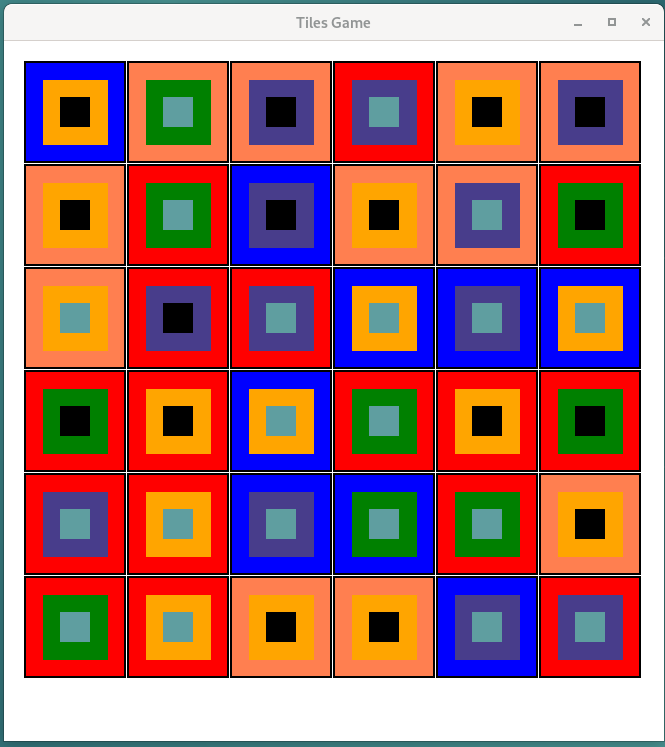
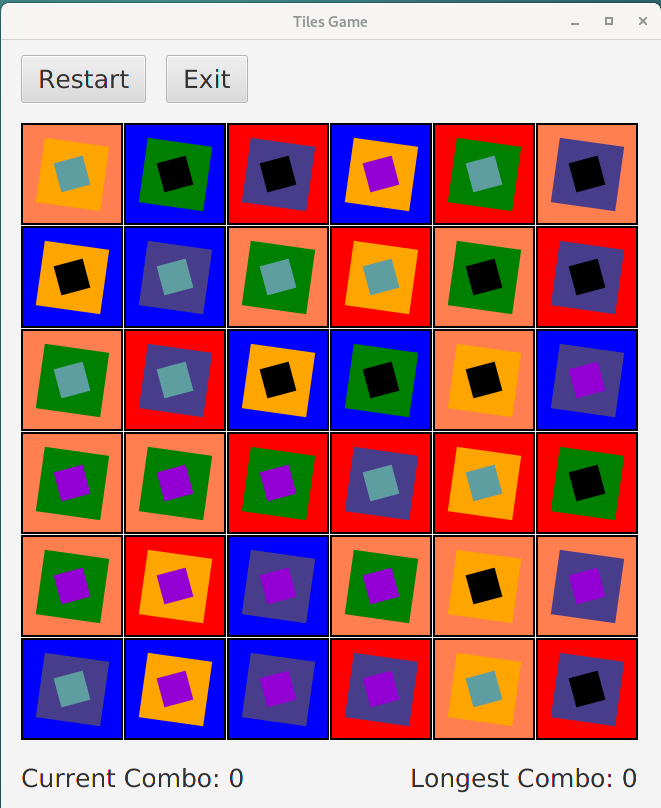
changed Screenshot

diff --git a/src/tiles/Board.java b/src/tiles/Board.java
@@ -9,7 +9,6 @@ import javafx.scene.layout.FlowPane;
 import javafx.scene.layout.HBox;
 import javafx.scene.text.Font;
 import javafx.scene.text.FontWeight;
-
 import java.util.ArrayList;
 import java.util.List;
 import static tiles.Constants.*;
@@ -68,9 +67,12 @@ public class Board{
         Button exit = new Button();
         exit.setText("Exit");
         exit.setFont(setFontt());
+        exit.setOnMouseClicked(event -> {
+//            isClicked();
+        });
 
         HBox hBox = new HBox(hBoxButtonSpacing, start, exit);
-        hBox.setPadding(new Insets(15, 0, 0, 15));
+        hBox.setPadding(new Insets(15, 0, 0, 20));
 
         return hBox;
     }
@@ -80,5 +82,8 @@ public class Board{
         return Font.font("Sans", FontWeight.MEDIUM, fontSize);
     }
 
+//    public boolean isClicked() {
+//        return true;
+//    }
 
 }

diff --git a/src/tiles/DisplayTiles.java b/src/tiles/DisplayTiles.java
@@ -3,6 +3,8 @@ package tiles;
 import javafx.scene.layout.StackPane;
 import javafx.scene.paint.Color;
 import javafx.scene.shape.Rectangle;
+import static tiles.Constants.*;
+
 
 public class DisplayTiles extends StackPane {
 
@@ -24,6 +26,9 @@ public class DisplayTiles extends StackPane {
         largeRectangle.setFill(TilesGenerator.getColorBigRectangle());
         mediumRectangle.setFill(TilesGenerator.getColorMediumRectangle());
         smallRectangle.setFill(TilesGenerator.getColorSmallRectangle());
+
+        mediumRectangle.setRotate(angleForMediumRectangle);
+        smallRectangle.setRotate(angleForSmallRectangle);
 
         getChildren().addAll(largeRectangle, mediumRectangle, smallRectangle);
         getChildren().add(rectangle);

diff --git a/src/tiles/MainController.java b/src/tiles/MainController.java
@@ -3,8 +3,11 @@ package tiles;
 import javafx.application.Application;
 import javafx.scene.Parent;
 import javafx.scene.Scene;
+import javafx.scene.control.Button;
 import javafx.scene.layout.*;
 import javafx.stage.Stage;
+
+import java.awt.event.ActionEvent;
 
 public class MainController extends Application {
 
@@ -28,5 +31,9 @@ public class MainController extends Application {
 
         stage.setScene(new Scene(anchorPane));
         stage.show();
+
+//        if (new Board().isClicked()) {
+//            stage.close();
+//        }
     }
 }

diff --git a/src/tiles/TilesGenerator.java b/src/tiles/TilesGenerator.java
@@ -51,12 +51,14 @@ public class TilesGenerator extends Canvas {
 
     public static Color getColorSmallRectangle() {
         Random random = new Random();
-        int rand = random.nextInt(2);
+        int rand = random.nextInt(3);
         switch (rand) {
             case 0:
                 return Color.BLACK;
             case 1:
                 return Color.CADETBLUE;
+            case 2:
+                return Color.DARKVIOLET;
         }
         return Color.BLACK;
     }

diff --git a/src/tiles/Constants.java b/src/tiles/Constants.java
@@ -8,6 +8,8 @@ public interface Constants {
     int windowWidth = 660;
     int windowHeight = 660;
     int fontSize = 25;
-    int hBoxLabelSpacing = 160;
+    int hBoxLabelSpacing = 165;
     int hBoxButtonSpacing = 20;
+    double angleForMediumRectangle = 8;
+    double angleForSmallRectangle = -15;
 }
